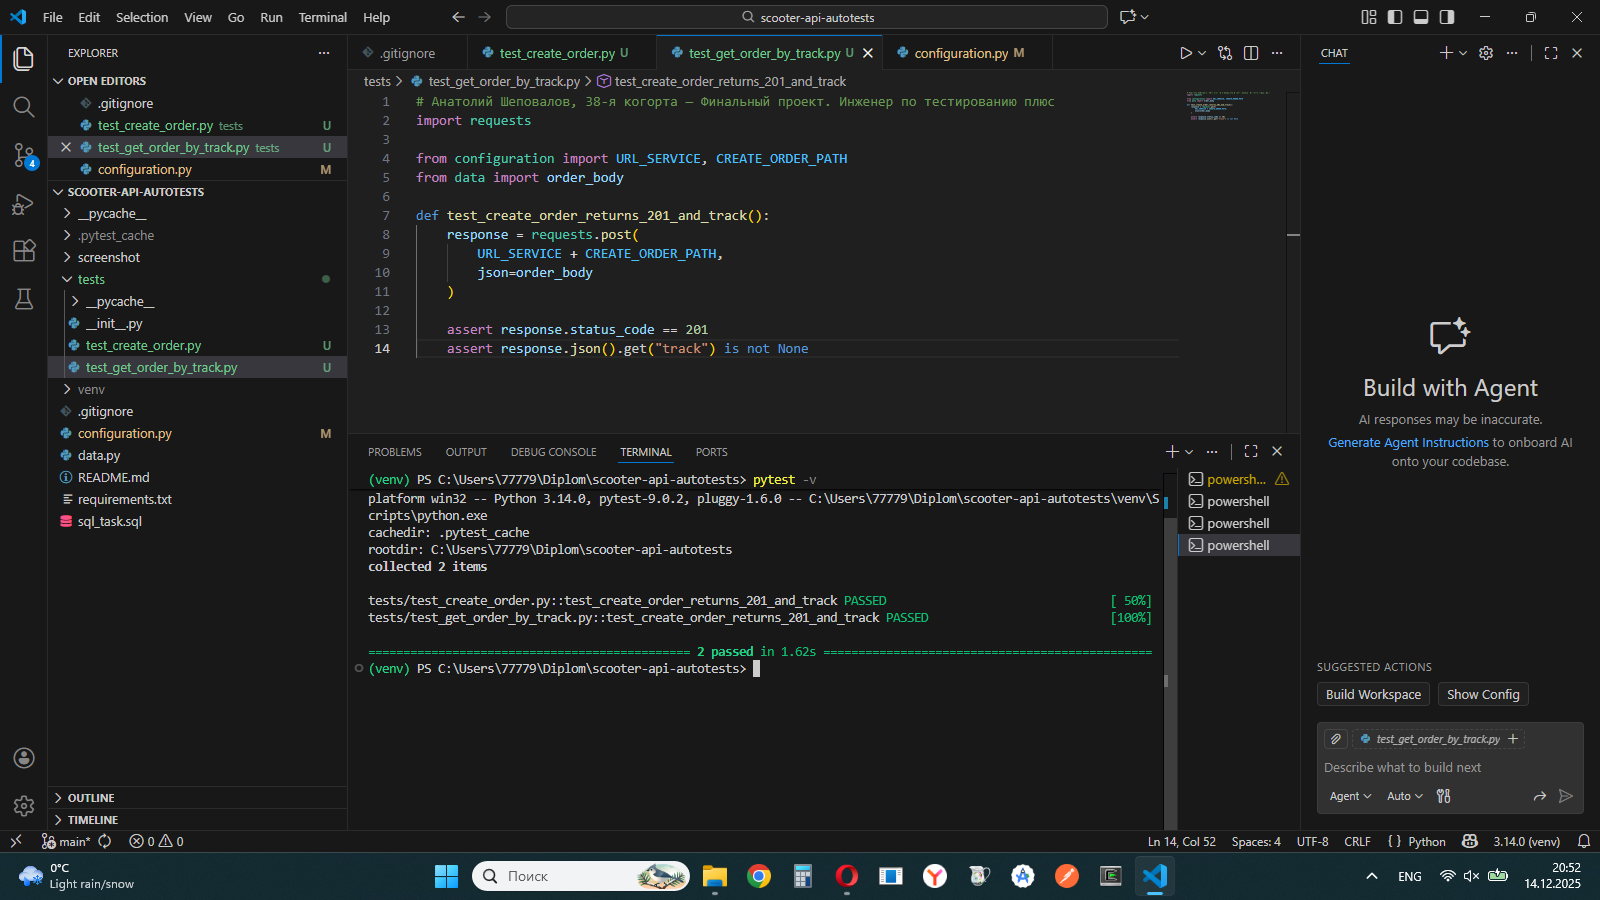
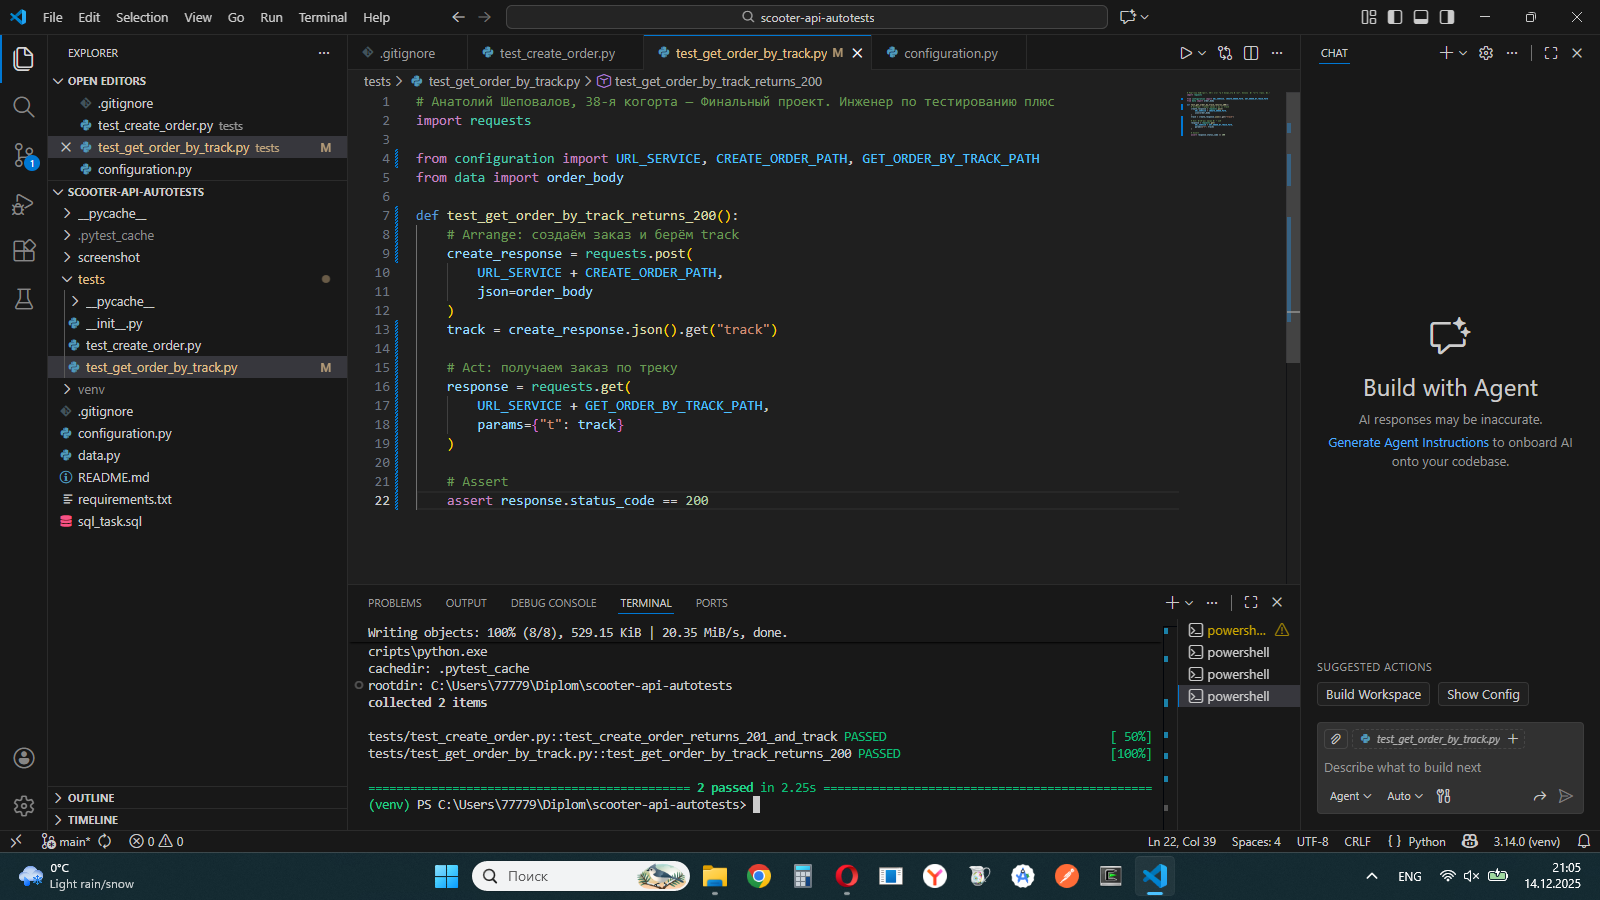
Fix get order test and update screenshots

diff --git a/tests/test_get_order_by_track.py b/tests/test_get_order_by_track.py
@@ -1,14 +1,22 @@
 # Анатолий Шеповалов, 38-я когорта — Финальный проект. Инженер по тестированию плюс
 import requests
 
-from configuration import URL_SERVICE, CREATE_ORDER_PATH
+from configuration import URL_SERVICE, CREATE_ORDER_PATH, GET_ORDER_BY_TRACK_PATH
 from data import order_body
 
-def test_create_order_returns_201_and_track():
-    response = requests.post(
+def test_get_order_by_track_returns_200():
+    # Arrange: создаём заказ и берём track
+    create_response = requests.post(
         URL_SERVICE + CREATE_ORDER_PATH,
         json=order_body
     )
+    track = create_response.json().get("track")
 
-    assert response.status_code == 201
-    assert response.json().get("track") is not None
+    # Act: получаем заказ по треку
+    response = requests.get(
+        URL_SERVICE + GET_ORDER_BY_TRACK_PATH,
+        params={"t": track}
+    )
+
+    # Assert
+    assert response.status_code == 200
